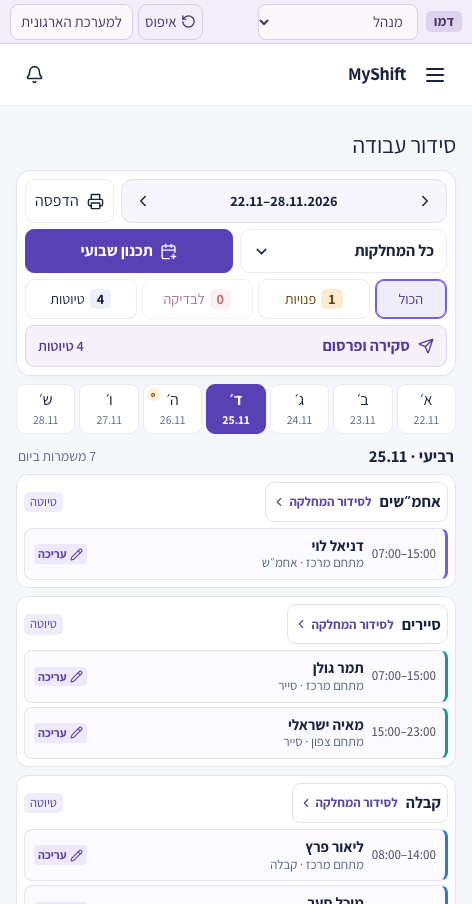
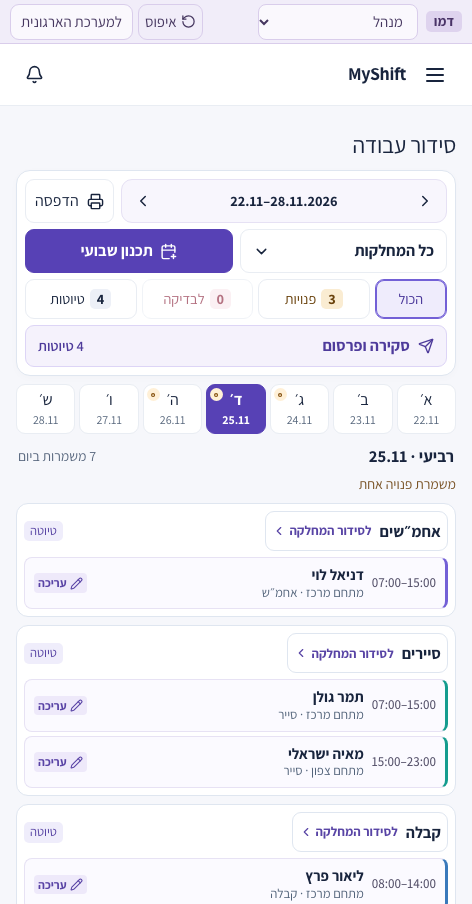
Demonstrate automatic weekly staffing with fillable gaps

diff --git a/e2e/departments.spec.ts b/e2e/departments.spec.ts
@@ -208,7 +208,7 @@ test("organization board shows all departments across the week, flags gaps and r
   }
   await expect(matrix.getByText("דניאל לוי").first()).toBeVisible();
   await expect(matrix.getByText(/מתחם מרכז/).first()).toBeVisible();
-  await expect(matrix.getByText("משמרת פנויה", { exact: true })).toBeVisible();
+  await expect(matrix.getByText("משמרת פנויה", { exact: true })).toHaveCount(3);
   expect(
     await matrix.evaluate(
       (el) =>
@@ -252,7 +252,11 @@ test("a manager can fill the flagged shift and see the weekly board update", asy
   await page.setViewportSize({ width: 1440, height: 900 });
   await page.goto("/demo?view=organization");
   const board = page.getByRole("region", { name: "לוח שבועי לכל המחלקות" });
-  await board.getByRole("button", { name: /^שיבוץ .*משמרת פנויה/ }).click();
+  const patrol = board
+    .getByRole("row")
+    .filter({ has: departmentScheduleButton(page, "סיירים") });
+  const vacancy = patrol.getByRole("button", { name: /^שיבוץ .*משמרת פנויה/ });
+  await vacancy.click();
   const form = page.getByRole("dialog", { name: /עריכת משמרת|שיבוץ עובד/ });
   const workers = form.getByRole("combobox", {
     name: "שיבוץ עובד",
@@ -269,16 +273,14 @@ test("a manager can fill the flagged shift and see the weekly board update", asy
   await form.getByRole("button", { name: "שמירה", exact: true }).click();
   await expect(form).toHaveCount(0);
   const openShifts = board.getByRole("button", { name: /פנויות לשיבוץ/ });
-  await expect(openShifts).toContainText("0");
-  await expect(
-    board.getByRole("button", { name: /^שיבוץ .*משמרת פנויה/ }),
-  ).toHaveCount(0);
+  await expect(openShifts).toContainText("2");
+  await expect(vacancy).toHaveCount(0);
   await page.getByRole("button", exact("ביטול הפעולה האחרונה")).click();
-  await expect(openShifts).toContainText("1");
-  await board.getByRole("button", { name: /^שיבוץ .*משמרת פנויה/ }).click();
+  await expect(openShifts).toContainText("3");
+  await vacancy.click();
   await workers.selectOption(id!);
   await form.getByRole("button", exact("שמירה")).click();
-  await expect(openShifts).toContainText("0");
+  await expect(openShifts).toContainText("2");
   await departmentScheduleButton(board, "סיירים").click();
   await page.getByRole("button", exact("חזרה לכל המחלקות")).click();
 
@@ -307,7 +309,7 @@ test("a manager can fill the flagged shift and see the weekly board update", asy
   await recovery.click();
   await navigated;
   await expect(page).toHaveURL(recoveryUrl);
-  await expect(openShifts).toContainText("0");
+  await expect(openShifts).toContainText("2");
   expect(await storedSchedule()).toBe(beforeRecovery);
 });
 
@@ -334,7 +336,7 @@ test("printing from the phone view includes all seven days and ignores the open-
   await expect(sheet.getByRole("columnheader")).toHaveCount(8);
   await expect(sheet.getByRole("rowheader")).toHaveCount(4);
   await expect(sheet.getByText("דניאל לוי").first()).toBeVisible();
-  await expect(sheet.getByText("משמרת פנויה", { exact: true })).toBeVisible();
+  await expect(sheet.getByText("משמרת פנויה", { exact: true })).toHaveCount(3);
   await expect(sheet.getByText("נתוני דוגמה בלבד")).toBeVisible();
   await expect(page.locator(".sidebar")).toBeHidden();
   await expect(page.locator(".org-mobile")).toBeHidden();
@@ -400,11 +402,16 @@ test("weekly planning defaults to every department, rejects stale drafts, and pr
   const firstGroup = dialog.locator("details").first();
   await expect(dialog.locator("details[open]")).toHaveCount(0);
   await firstGroup.locator("summary").click();
-  await expect(firstGroup.getByText("משמרת חדשה", { exact: true }).first()).toBeVisible();
-  const skipped = dialog.locator("details").filter({ hasText: "שעות טרם הוגדרו" }).first();
-  await expect(skipped.getByText(/יש להגדיר דרישות איוש/)).toBeHidden();
-  await skipped.locator("summary").click();
-  await expect(skipped.getByText(/יש להגדיר דרישות איוש/)).toBeVisible();
+  await expect(
+    firstGroup.getByText("משמרת חדשה", { exact: true }).first(),
+  ).toBeVisible();
+  const parkingProposal = dialog
+    .locator("details")
+    .filter({ hasText: "חניונים" });
+  await parkingProposal.locator("summary").click();
+  await expect(
+    parkingProposal.getByText("מילוי משמרת פנויה", { exact: true }),
+  ).toBeVisible();
   await expect(save).toBeEnabled();
   await scope.click();
   const scopeOptions = dialog.getByRole("group", exact("היקף תכנון"));
@@ -444,6 +451,8 @@ test("weekly planning defaults to every department, rejects stale drafts, and pr
   await save.click();
   await expect(dialog).toBeHidden();
   const after = await snapshot();
+  expect(current.shift_assignments.filter((shift) => !shift.employee_id)).toHaveLength(3);
+  expect(after.shift_assignments.filter((shift) => !shift.employee_id)).toHaveLength(0);
   expect(after.shift_assignments.length).toBeGreaterThan(
     current.shift_assignments.length,
   );

diff --git a/tests/departments.test.ts b/tests/departments.test.ts
@@ -6,7 +6,7 @@ import {
   DEMO_KEY,
   upgradeDemo,
 } from "../src/lib/demo";
-import { canAssign, planWeek } from "../src/lib/planner";
+import { canAssign, planDepartments, planWeek } from "../src/lib/planner";
 import { addDays, type Assignment } from "../src/lib/domain";
 let storage: Map<string, string>;
 beforeEach(() => {
@@ -32,7 +32,7 @@ it("adds four demo schedules while keeping unverified templates separate", () =>
     expect(
       shifts.every(
         (shift) =>
-          shift.employee_id && canAssign(data, shift, shift.employee_id),
+          !shift.employee_id || canAssign(data, shift, shift.employee_id),
       ),
     ).toBe(true);
     expect(
@@ -270,4 +270,47 @@ it("adds missing sample schedules once without overwriting a saved archive or ex
     data.shift_assignments.filter((shift) => shift.department_id === parking),
   ).toHaveLength(14);
   expect(loadDemo()).toEqual(data);
+});
+
+it("fills every seeded vacancy and adds missing coverage without replacing assigned workers", async () => {
+  const before = loadDemo();
+  const week = String(
+    before.schedule_versions.find((row) => row.status === "draft")!.week_start,
+  );
+  const draftIds = new Set(
+    before.schedule_versions
+      .filter((row) => row.week_start === week)
+      .map((row) => row.id),
+  );
+  const shifts = before.shift_assignments.filter((row) =>
+    draftIds.has(row.version_id),
+  );
+  expect(shifts.filter((row) => !row.employee_id)).toHaveLength(3);
+  const targets = planDepartments(before, week, before.departments)
+    .map(({ target }) => ({
+      department_id: target.departmentId,
+      version_id: target.versionId ?? null,
+      revision: target.revision,
+      status: target.status,
+      operations: target.operations,
+    }))
+    .filter(({ operations }) => operations.length);
+  expect(
+    targets.some(({ operations }) =>
+      operations.some((op) => op.kind === "create"),
+    ),
+  ).toBe(true);
+  await demoCommand("/api/change", {
+    action: "apply_weekly_plan",
+    week,
+    targets,
+  });
+  const result = loadDemo().shift_assignments.filter((row) =>
+    draftIds.has(row.version_id),
+  );
+  expect(result.length).toBeGreaterThan(shifts.length);
+  expect(result.filter((row) => !row.employee_id)).toHaveLength(0);
+  for (const existing of shifts.filter((row) => row.employee_id)) {
+    expect(result.find((row) => row.id === existing.id)).toEqual(existing);
+  }
 });

diff --git a/src/lib/demo.ts b/src/lib/demo.ts
@@ -170,6 +170,19 @@ export function seedDemo(): Store {
   ];
   const store = upgradeDemo({ schema: 1, data, pending: [] });
   addSampleSchedules(store);
+  // Seed vacancies across more than one department so the first weekly plan
+  // demonstrates filling existing shifts as well as creating missing ones.
+  for (const [department, day] of [
+    [10, 2],
+    [11, 3],
+  ] as const) {
+    const vacancy = data.shift_assignments.find(
+      (shift) =>
+        shift.department_id === fixed(department) &&
+        localDate(shift.starts_at) === addDays(week, day),
+    );
+    if (vacancy) vacancy.employee_id = null;
+  }
   return preparePublications(store);
 }
 

diff --git a/tests/overview.test.ts b/tests/overview.test.ts
@@ -34,7 +34,7 @@ it("distinguishes open assignments, coverage requirements and weeks that have no
   expect(rows[1]).toMatchObject({ total: 14, open: 1, shortage: 1 });
   expect(rows[2]).toMatchObject({
     total: 14,
-    staffed: 14,
+    staffed: 13,
     status: "draft",
     configured: false,
   });

diff --git a/README.md b/README.md
@@ -42,11 +42,12 @@ npm run dev
 
 ## תרגול בדמו
 
-1. בחרו **מנהל** בפס העליון. בלוח **סידור עבודה** לחצו **פנויות לשיבוץ**. בטלפון בחרו את היום המסומן עם משמרת פנויה, ואז פתחו את המשמרת בסיירים.
-2. בחרו עובד זמין ולחצו **שמירה**. הפעולה נשמרת בטיוטה. אפשר לבחור **ביטול הפעולה האחרונה** בהודעה שמופיעה אחרי השמירה.
-3. פתחו **תכנון שבועי** כדי לבדוק מה אפשר להשלים לפי התבניות ודרישות האיוש. פתחו מחלקה כדי לפרט את ההצעה ואשרו רק אם היא מתאימה.
-4. פתחו **סקירה ופרסום**, בדקו את השינויים, בחרו את המחלקות ואשרו את הפרסום.
-5. עברו לעובד ששיבצתם בפס ההדגמה. **המשמרות שלי** מציג את המשמרות שלו שפורסמו. כדי לראות מראש פרסום לדוגמה בדמו חדש, בחרו **דניאל לוי** ועברו שבוע אחד אחורה.
+1. פתחו דמו חדש או בחרו **איפוס** בפס העליון, ואז בחרו **מנהל**. השבוע מתחיל עם שלוש משמרות פנויות בקבלה, בחניונים ובסיירים, וגם עם משמרות חסרות לפי דרישות האיוש.
+2. לחצו **תכנון שבועי** והשאירו את ברירת המחדל של כל המחלקות. ההצעה מציגה עובדים זמינים למילוי המשמרות הפנויות ומשמרות חדשות להשלמת הכיסוי.
+3. לחצו **אישור ושמירה כטיוטה**. בתרחיש ההתחלתי מונה המשמרות הפנויות יורד מ־3 ל־0 והשיבוצים שכבר נקבעו נשמרים. אפשר לבחור **ביטול הפעולה האחרונה** בהודעת השמירה.
+4. לחצו **סקירה ופרסום**, בדקו את השינויים, בחרו את המחלקות ואשרו. עברו לתצוגת אחד העובדים ששובצו כדי לראות את הסידור האישי. לפרסום לדוגמה שכבר קיים, בחרו **דניאל לוי** ועברו שבוע אחד אחורה.
+
+[כך נראה הסידור לאחר התכנון השבועי](docs/screenshots/roster-after-planning.png)
 
 **איפוס** בפס הדמו פותח מסך אישור. אישור מוחק את השינויים המקומיים בדמו, כולל תלושי הדוגמה, ומחזיר את נתוני ההתחלה, השבוע הנוכחי ותצוגת המנהל בלשוניות דמו פתוחות. הדמו שומר נתונים בדפדפן באמצעות `localStorage`. [מסך אישור האיפוס](docs/screenshots/demo-reset-mobile.png)
 
